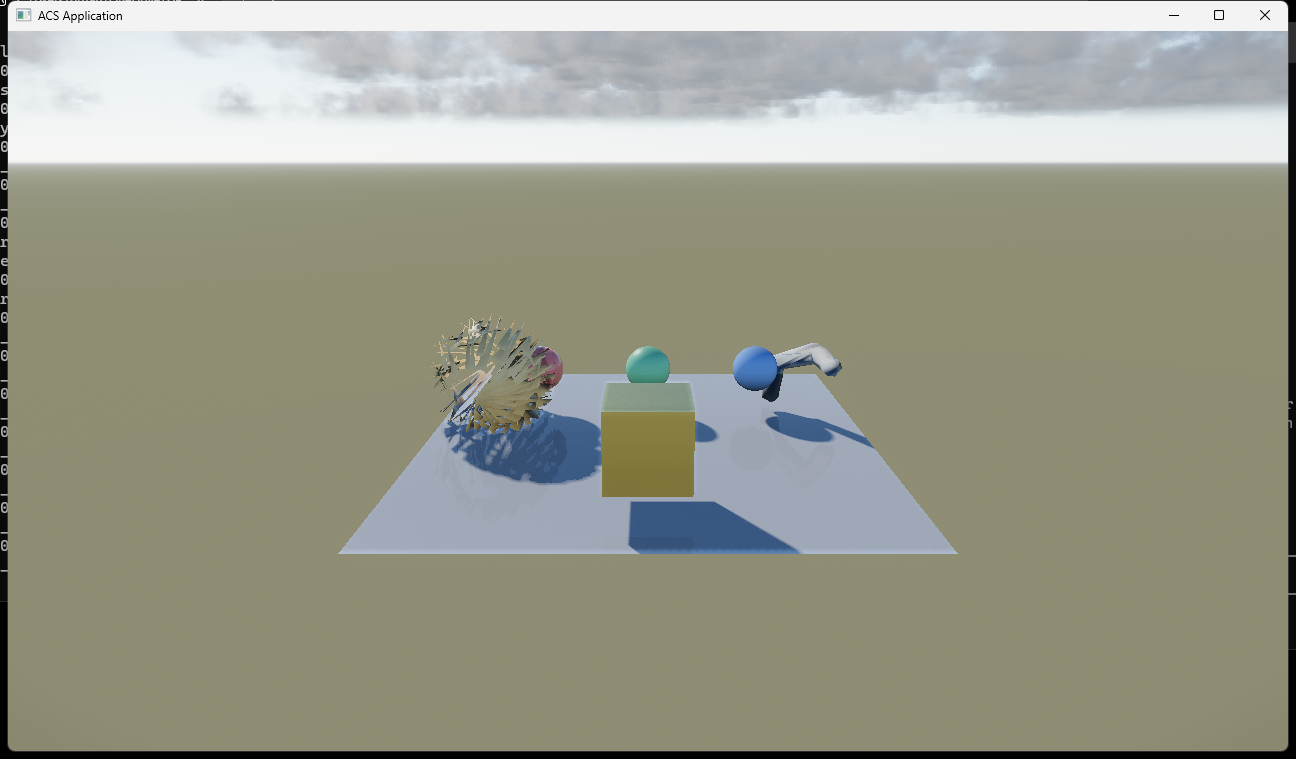
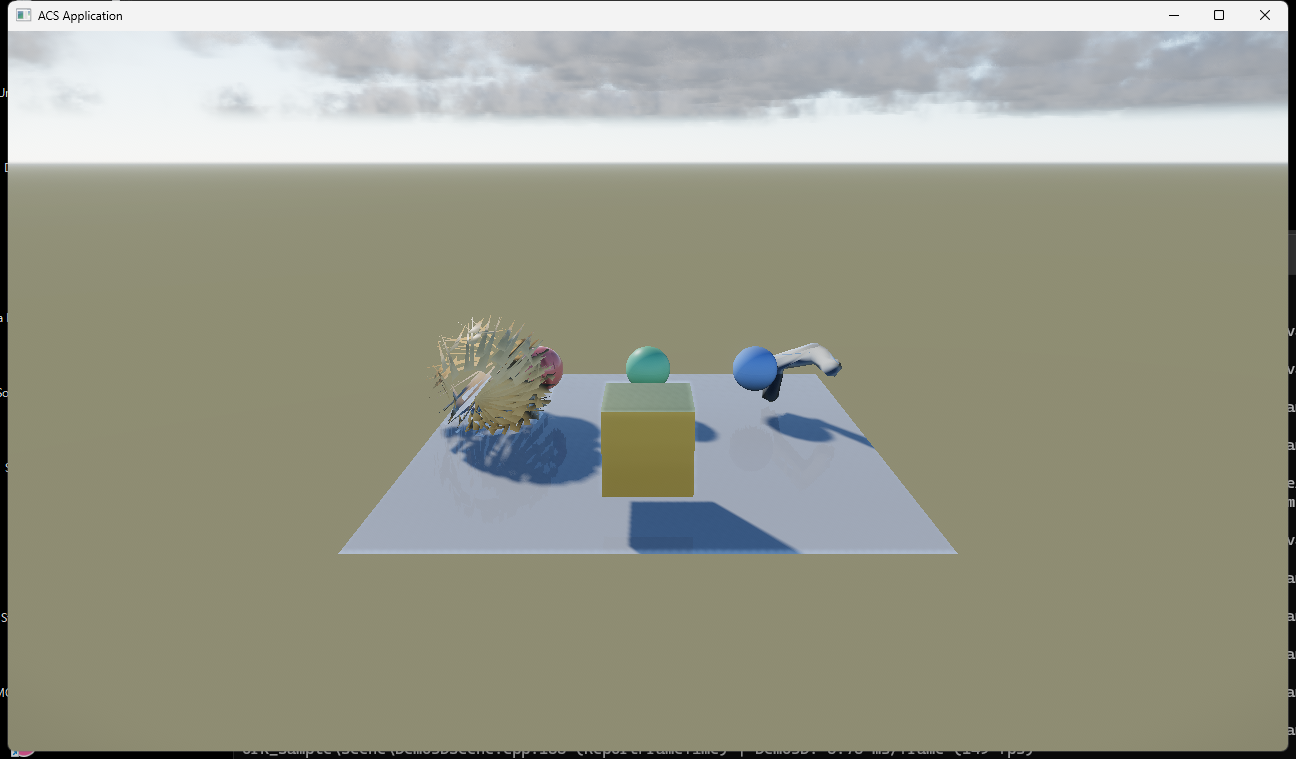
Cascaded shadows are on by default
エンジン側で入れたカスケードが、既定 4 枚で効くようになった。同じ 2048 でも手前に配る
枚数が増えたぶん、影の縁が締まる。値段はデモの構図で 6.6 -> 6.7 ms/frame。

Claude-Session: https://claude.ai/code/session_01QWWHaYrgcmNEqsp8SUqeVs

diff --git a/Docs/ROADMAP.md b/Docs/ROADMAP.md
@@ -90,7 +90,7 @@ Steam (`SteamworksBridge`)、スクリプト (`ScriptHost`)、機械学習 (`MlR
 ライティングか再構成か» を切り分けられる。
 
 残り: 雲を環境光と影へ反映 (いまは曇っても地面が暗くならない)、空気遠近、
-影の CSM 化 (いまは単一 cascade)。
+~~影の CSM 化~~ **済** (2026-08-18、既定 4 枚)。
 
 - 3D シーンの窓口 — モデルを置く / 動かす / 消す
 - ~~カメラ~~ → **ACS 側へ実装済み** (`FCamera3D`、`acs_temp_doc/0004`)。
